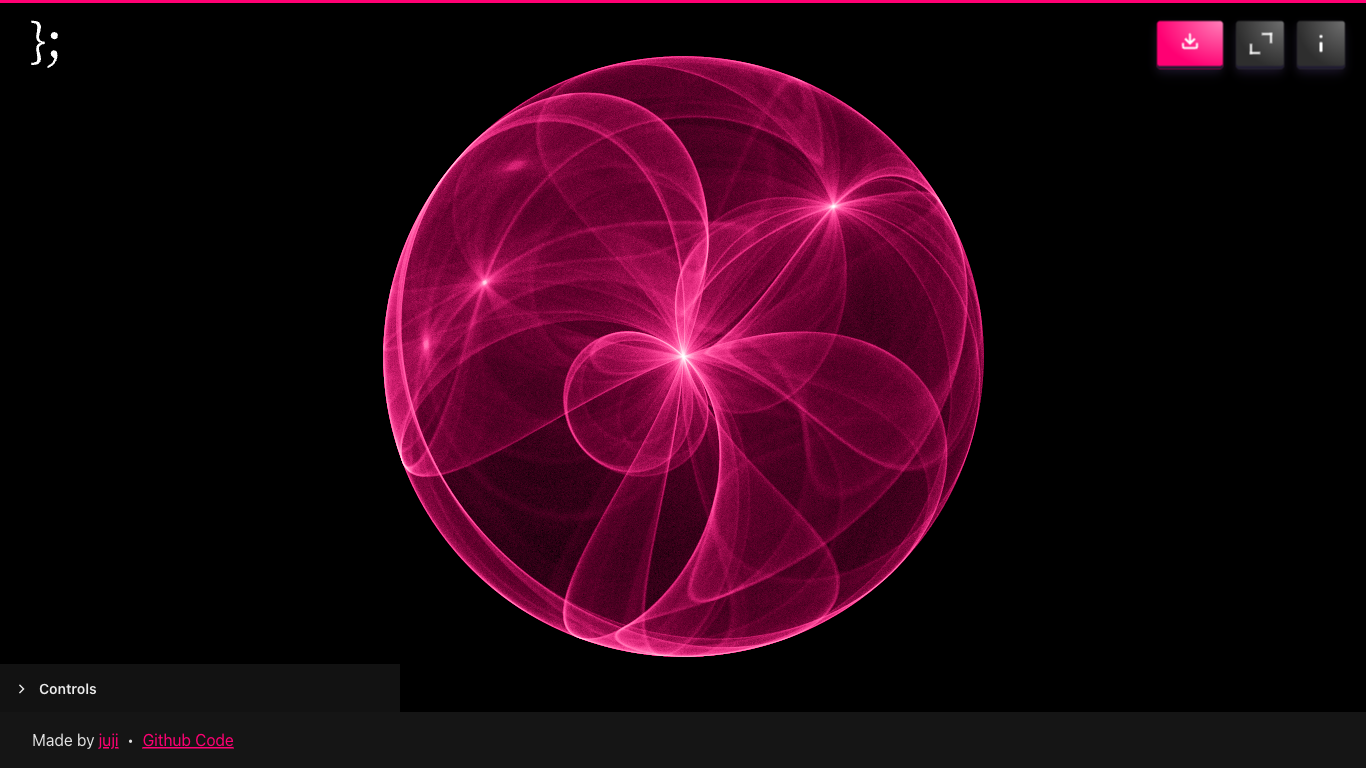
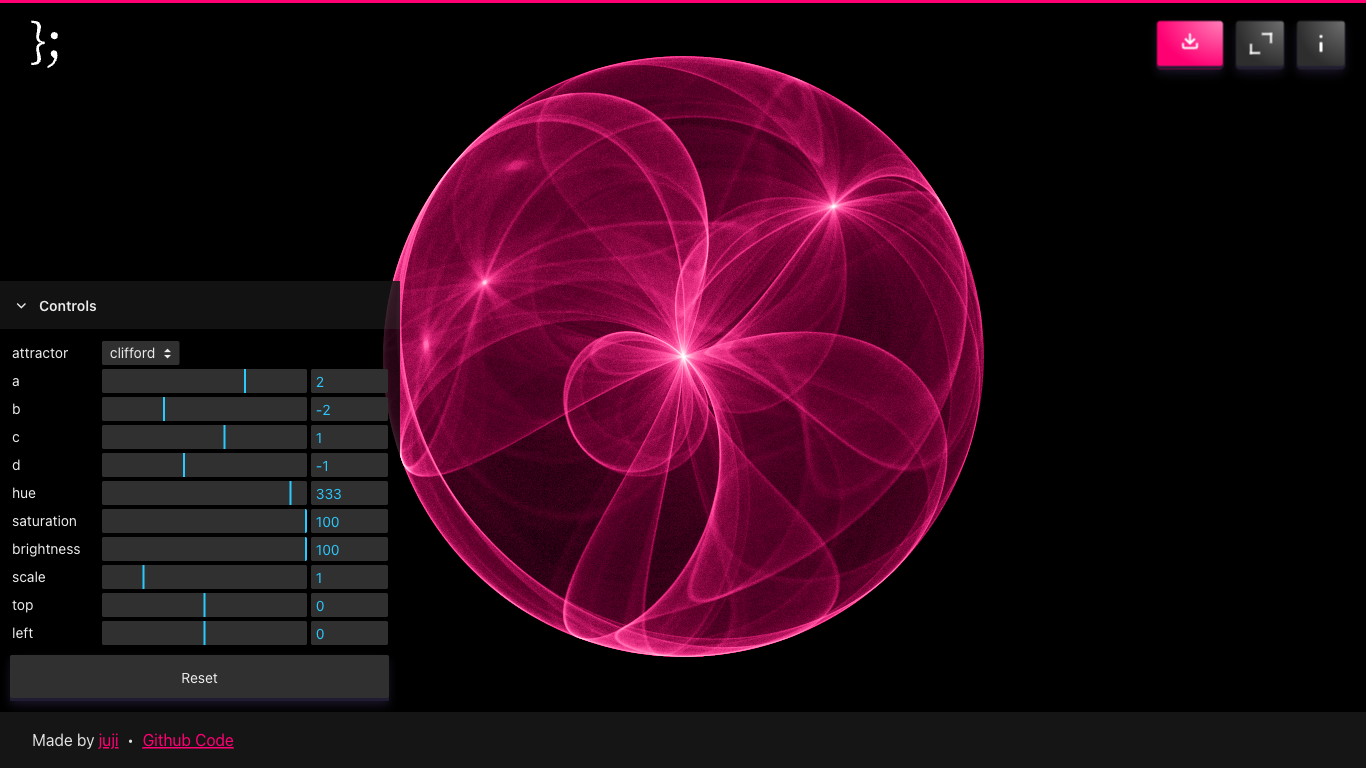
closing gui on small screen: screenshot

Changed region(s): [[0.0, 0.375, 0.3075, 0.9375], [0.0307, 0.375, 0.0615, 0.4062]]

diff --git a/twa/generate-screenshots.js b/twa/generate-screenshots.js
@@ -73,50 +73,8 @@ async function generateScreenshots() {
       // Wait for the canvas to be ready
       await page.waitForSelector('canvas', { timeout: 10000 });
       
-      // Wait a bit more for the attractor to render
-      await new Promise(resolve => setTimeout(resolve, 2000));
-      
-      // Click on the lil-gui title to expand controls
-      try {
-        await page.click('.lil-gui.root > .title');
-        console.log(`📋 Clicked lil-gui title for ${config.name}`);
-        
-        // Wait 5 seconds after clicking
-        await new Promise(resolve => setTimeout(resolve, 5000));
-      } catch (error) {
-        console.log(`⚠  Could not click lil-gui title: ${error.message}`);
-        // Still wait a bit in case the element doesn't exist
-        await new Promise(resolve => setTimeout(resolve, 1000));
-      }
-      
-      // Hide the controls panel for cleaner screenshots
-      await page.evaluate(() => {
-        const controlsPanel = document.querySelector('.dg.ac');
-        if (controlsPanel) {
-          controlsPanel.style.display = 'none';
-        }
-      });
-      
-      // Optional: Trigger a specific attractor pattern
-      try {
-        await page.evaluate((attractorConfig) => {
-          // Try to access the global state/controls if available
-          if (window.gui && window.gui.__controllers) {
-            const controllers = window.gui.__controllers;
-            // Set attractor parameters if controls are available
-            controllers.forEach(controller => {
-              if (controller.property in attractorConfig.params) {
-                controller.setValue(attractorConfig.params[controller.property]);
-              }
-            });
-          }
-        }, attractorConfig);
-        
-        // Wait for the new pattern to render
-        await new Promise(resolve => setTimeout(resolve, 1000));
-      } catch (error) {
-        console.log(`⚠  Could not set custom attractor config: ${error.message}`);
-      }
+      // Wait a bit more for the attractor to render. wait for 10 seconds
+      await new Promise(resolve => setTimeout(resolve, 10000));
       
       // Take the screenshot
       const outputPath = path.join(outputDir, config.name);
